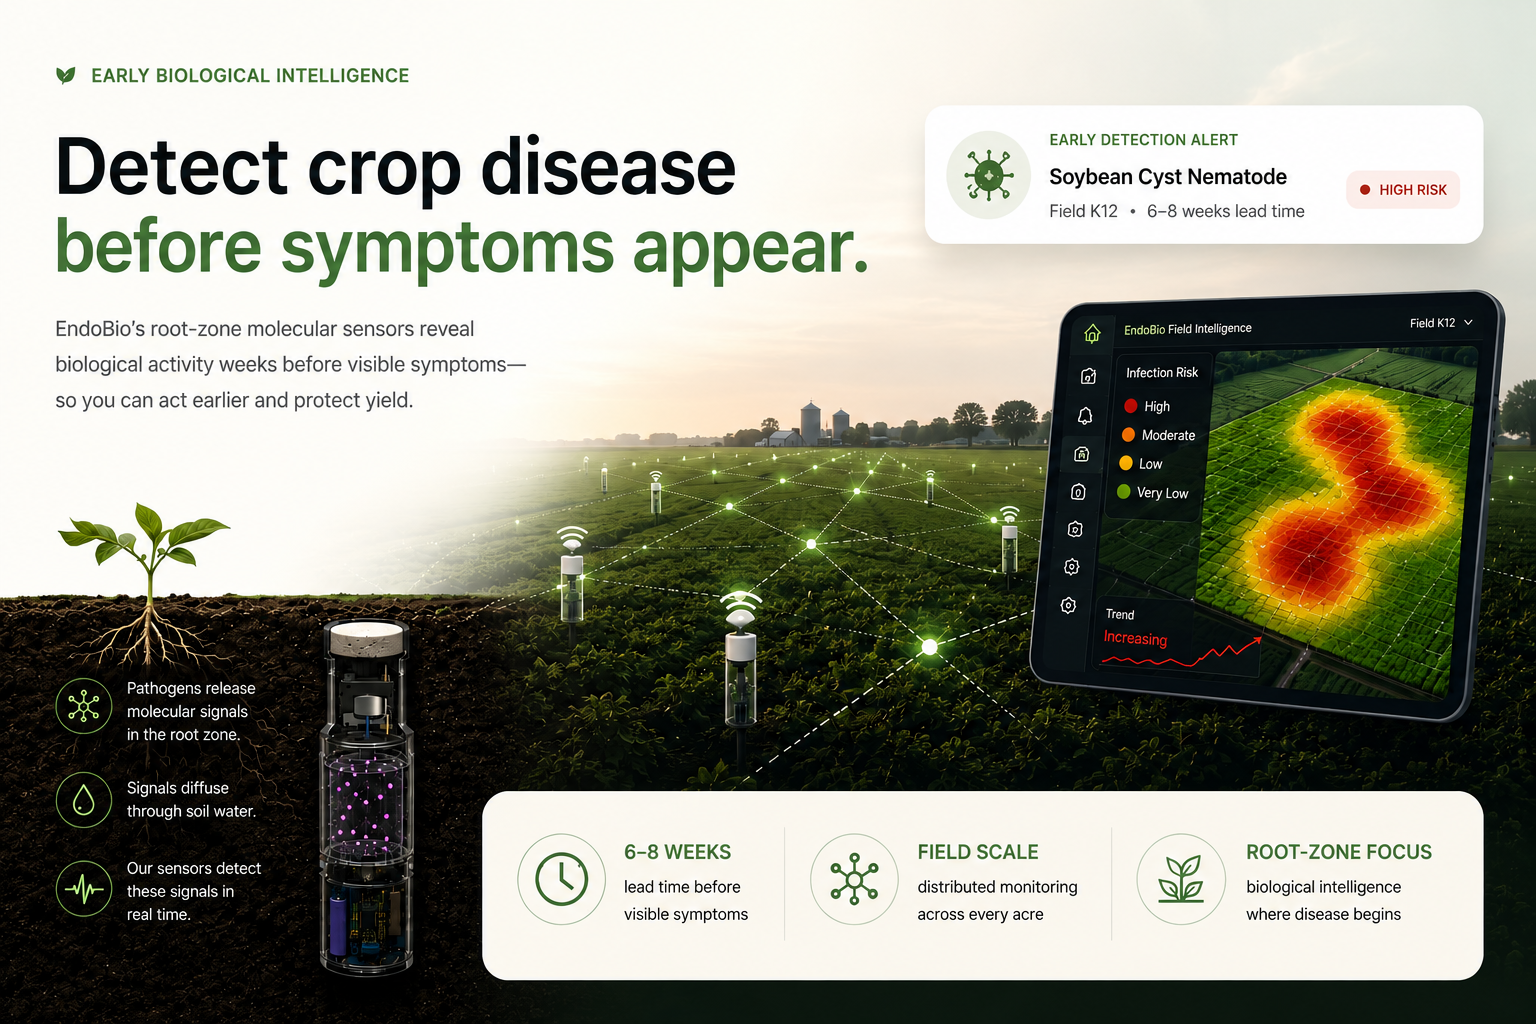
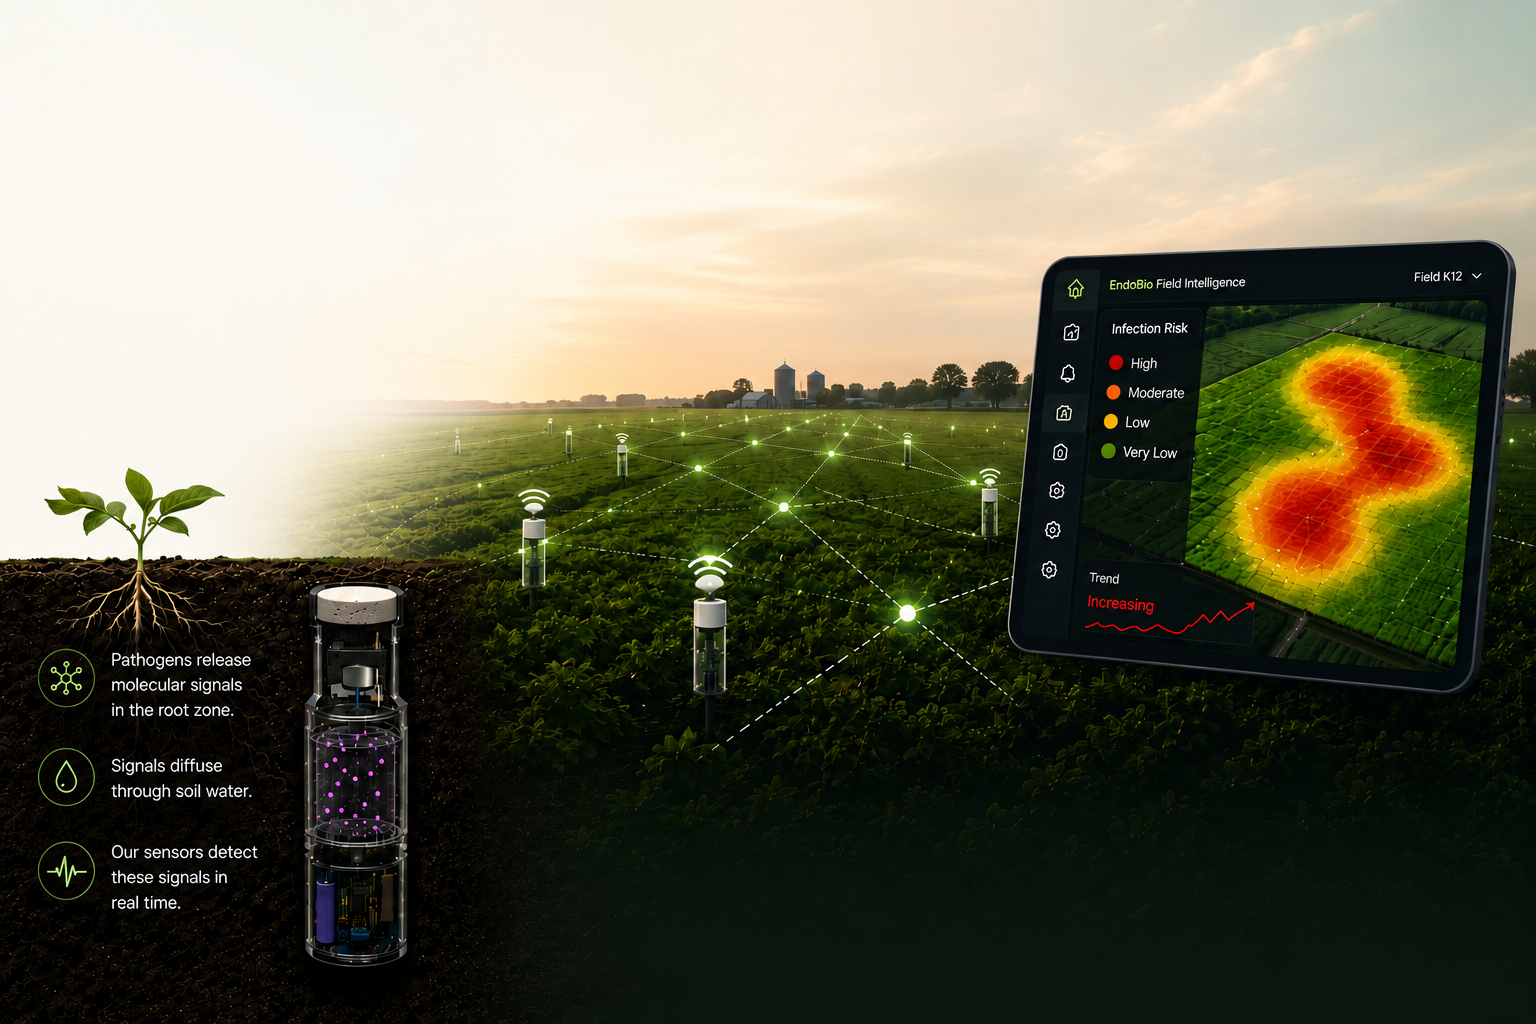
New overlay

diff --git a/src/components/Hero/index.tsx b/src/components/Hero/index.tsx
@@ -1,15 +1,3 @@
-const processSteps = [
-  {
-    title: 'Pathogens release molecular signals in the root zone.',
-  },
-  {
-    title: 'Signals diffuse through soil water.',
-  },
-  {
-    title: 'Our sensors detect these signals in real time.',
-  },
-]
-
 const metrics = [
   {
     value: '6-8 weeks',
@@ -36,13 +24,13 @@ export default function Hero() {
         backgroundSize: 'cover',
       }}
     >
-      <div className="absolute inset-0 -z-10 bg-gradient-to-r from-white via-white/70 to-white/10" />
-      <div className="absolute inset-x-0 bottom-0 -z-10 h-2/5 bg-gradient-to-t from-black/55 to-transparent" />
+      <div className="absolute inset-0 -z-10 bg-gradient-to-b from-white via-white/50 to-black/55 lg:bg-gradient-to-r lg:from-white lg:via-white/55 lg:to-white/5" />
+      <div className="absolute inset-x-0 bottom-0 -z-10 h-1/2 bg-gradient-to-t from-black/65 via-black/25 to-transparent" />
 
-      <div className="mx-auto max-w-[1536px] px-6 pb-8 pt-12 sm:px-10 sm:pb-10 sm:pt-16 lg:px-14">
-        <div className="grid min-h-[760px] grid-cols-1 gap-8 lg:grid-cols-[0.92fr_1.08fr]">
-          <div className="flex max-w-2xl flex-col">
-            <p className="mb-6 inline-flex items-center gap-3 text-sm font-bold uppercase tracking-[0.08em] text-[#2f6f2f] sm:text-base">
+      <div className="mx-auto max-w-[1536px] px-5 pb-6 pt-10 sm:px-8 sm:pb-8 sm:pt-14 lg:px-14">
+        <div className="grid min-h-[780px] grid-cols-1 lg:grid-cols-[0.9fr_1.1fr]">
+          <div className="max-w-3xl">
+            <p className="mb-4 inline-flex items-center gap-2 text-xs font-bold uppercase tracking-[0.08em] text-[#2f6f2f] sm:mb-6 sm:gap-3 sm:text-base">
               <span className="h-3 w-3 rounded-full bg-[#3a7f35]" />
               Early Biological Intelligence
             </p>
@@ -50,7 +38,7 @@ export default function Hero() {
             <h1
               className="font-bold text-[#071018]"
               style={{
-                fontSize: 'clamp(3.2rem, 6vw, 5.1rem)',
+                fontSize: 'clamp(2.65rem, 5.2vw, 4.8rem)',
                 lineHeight: 0.98,
                 letterSpacing: '-0.02em',
               }}
@@ -60,37 +48,28 @@ export default function Hero() {
               <span className="text-[#2f6f2f]">before symptoms appear.</span>
             </h1>
 
-            <p className="mt-8 max-w-xl text-lg leading-8 text-[#34383d] sm:text-xl">
+            <p className="mt-5 max-w-xl text-base leading-7 text-[#34383d] sm:mt-7 sm:text-xl sm:leading-8">
               EndoBio&apos;s root-zone molecular sensors reveal biological activity weeks before
               visible symptoms, so you can act earlier and protect yield.
             </p>
-
-            <div className="mt-auto hidden max-w-sm space-y-6 pb-24 pt-16 text-white lg:block">
-              {processSteps.map((step) => (
-                <div key={step.title} className="flex items-center gap-4">
-                  <span className="flex h-14 w-14 shrink-0 items-center justify-center rounded-full border border-[#a8ef68] bg-black/20 text-[#a8ef68] backdrop-blur">
-                    <span className="h-2.5 w-2.5 rounded-full bg-[#a8ef68]" />
-                  </span>
-                  <p className="text-base leading-6 drop-shadow">{step.title}</p>
-                </div>
-              ))}
-            </div>
           </div>
 
-          <div className="flex flex-col items-end">
-            <div className="mt-4 w-full max-w-xl rounded-3xl bg-white/88 p-6 shadow-2xl ring-1 ring-black/5 backdrop-blur-md sm:p-7">
-              <div className="flex items-center gap-5">
-                <div className="flex h-16 w-16 shrink-0 items-center justify-center rounded-full bg-[#e8f0df]">
-                  <span className="h-8 w-8 rounded-full bg-[#4f853d]" />
+          <div className="flex flex-col items-stretch lg:items-end">
+            <div className="mt-8 w-full rounded-3xl bg-white/90 p-4 shadow-2xl ring-1 ring-black/5 backdrop-blur-md sm:mt-10 sm:max-w-xl sm:p-6 lg:mt-8">
+              <div className="flex items-center gap-4 sm:gap-5">
+                <div className="flex h-13 w-13 shrink-0 items-center justify-center rounded-full bg-[#e8f0df] sm:h-16 sm:w-16">
+                  <span className="h-7 w-7 rounded-full bg-[#4f853d] sm:h-8 sm:w-8" />
                 </div>
                 <div className="min-w-0 flex-1">
-                  <p className="text-sm font-bold uppercase tracking-[0.08em] text-[#2f6f2f]">
+                  <p className="text-xs font-bold uppercase tracking-[0.08em] text-[#2f6f2f] sm:text-sm">
                     Early Detection Alert
                   </p>
-                  <h2 className="mt-2 text-xl font-bold text-[#071018] sm:text-2xl">
+                  <h2 className="mt-1 text-lg font-bold leading-tight text-[#071018] sm:mt-2 sm:text-2xl">
                     Soybean Cyst Nematode
                   </h2>
-                  <p className="mt-1 text-base text-[#34383d]">Field K12 · 6-8 weeks lead time</p>
+                  <p className="mt-1 text-sm leading-5 text-[#34383d] sm:text-base">
+                    Field K12 · 6-8 weeks lead time
+                  </p>
                 </div>
                 <span className="hidden rounded-2xl bg-[#fff0ec] px-4 py-3 text-sm font-bold uppercase tracking-wide text-[#b8261c] sm:inline-flex">
                   High Risk
@@ -98,16 +77,23 @@ export default function Hero() {
               </div>
             </div>
 
-            <div className="mt-auto w-full max-w-5xl rounded-3xl bg-white/92 p-6 shadow-2xl ring-1 ring-black/5 backdrop-blur-md sm:p-8 lg:mb-8">
-              <div className="grid gap-6 sm:grid-cols-3">
+            <div className="mt-auto w-full rounded-3xl bg-white/92 p-4 shadow-2xl ring-1 ring-black/5 backdrop-blur-md sm:p-6 lg:mb-8 lg:max-w-5xl lg:p-8">
+              <div className="grid gap-4 sm:grid-cols-3 sm:gap-5">
                 {metrics.map((metric) => (
-                  <div key={metric.value} className="flex items-center gap-4 sm:border-r sm:border-black/10 sm:pr-6 sm:last:border-r-0">
-                    <span className="flex h-14 w-14 shrink-0 items-center justify-center rounded-full border border-[#a8cba1] text-[#2f6f2f]">
+                  <div
+                    key={metric.value}
+                    className="flex items-center gap-4 rounded-2xl bg-white/45 p-3 sm:rounded-none sm:bg-transparent sm:p-0 sm:pr-5 sm:border-r sm:border-black/10 sm:last:border-r-0"
+                  >
+                    <span className="flex h-11 w-11 shrink-0 items-center justify-center rounded-full border border-[#a8cba1] text-[#2f6f2f] sm:h-14 sm:w-14">
                       <span className="h-2.5 w-2.5 rounded-full bg-[#2f6f2f]" />
                     </span>
                     <div>
-                      <p className="text-lg font-bold uppercase text-[#2f6f2f] sm:text-xl">{metric.value}</p>
-                      <p className="mt-1 text-sm leading-6 text-[#1d1d1f]">{metric.label}</p>
+                      <p className="text-base font-bold uppercase leading-tight text-[#2f6f2f] sm:text-lg lg:text-xl">
+                        {metric.value}
+                      </p>
+                      <p className="mt-1 text-sm leading-5 text-[#1d1d1f] sm:leading-6">
+                        {metric.label}
+                      </p>
                     </div>
                   </div>
                 ))}